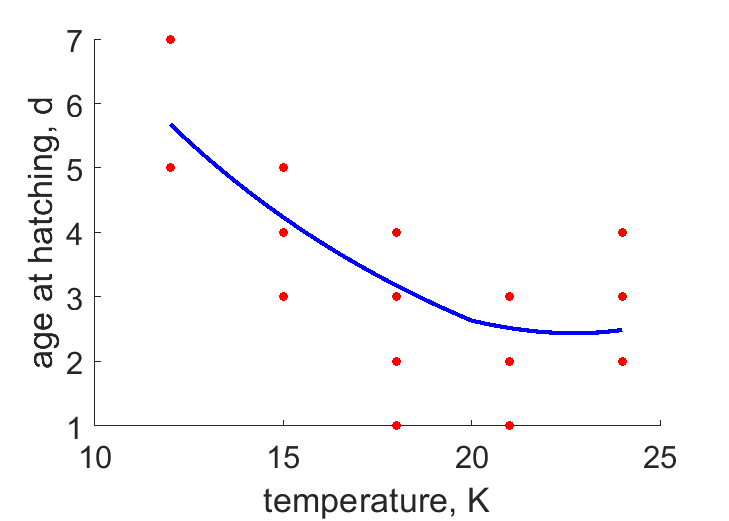
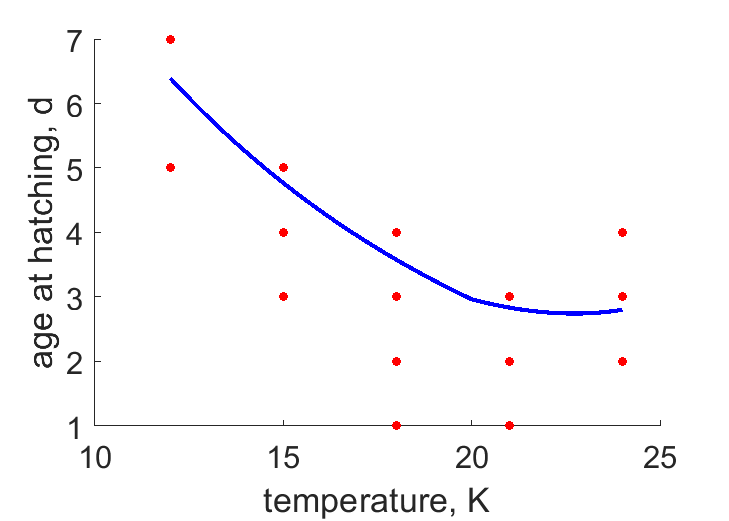
changing the functional response

diff --git a/Tachidius_discipes_abp/Tachidius_discipes_res.html b/Tachidius_discipes_abp/Tachidius_discipes_res.html
@@ -44,7 +44,7 @@
   </div>
 
   <div class="par">
-  <h4>COMPLETE = 2.0; MRE =    0.122; SMAE =    0.125; SMSE =    0.035 </h4>
+  <h4>COMPLETE = 2.0; MRE =    0.146; SMAE =    0.149; SMSE =    0.044 </h4>
   </div>
 
   <p class="clear"></p>
@@ -53,33 +53,33 @@
   <h2>Data & predictions</h2>
   <TABLE id="prd">
     <TR  class="head"><TH>data</TH> <TH>prd</TH> <TH>RE</TH>  <TH>symbol</TH> <TH>units</TH> <TH>description</TH> </TR>
-    <TR><TD>4.375</TD> <TD>4.236</TD> <TD>0.03184</TD> <TD>ah</TD> <TD>d</TD> <TD>age at hatch</TD></TR>
-    <TR><TD>0.006853</TD> <TD>0.007327</TD> <TD>0.0693</TD> <TD>Lh</TD> <TD>cm</TD> <TD>length at hatch</TD></TR>
-    <TR><TD>0.007812</TD> <TD>0.009189</TD> <TD>0.1762</TD> <TD>Lb</TD> <TD>cm</TD> <TD>length at birth</TD></TR>
-    <TR><TD>0.02666</TD> <TD>0.02309</TD> <TD>0.1338</TD> <TD>Lp</TD> <TD>cm</TD> <TD>length at puberty</TD></TR>
-    <TR><TD>2.057e-05</TD> <TD>2.053e-05</TD> <TD>0.001872</TD> <TD>Wdp</TD> <TD>g</TD> <TD>ultimate dry weight at puberty</TD></TR>
-    <TR><TD>14.6</TD> <TD>15.89</TD> <TD>0.08846</TD> <TD>JOi</TD> <TD>nL/h/mug</TD> <TD>ultimate specific O2 consumption</TD></TR>
-    <TR><TD>0.985</TD> <TD>10.31</TD> <TD>9.467</TD> <TD>WCp</TD> <TD>mugC</TD> <TD>carbon mass at puberty</TD></TR>
-    <TR><TD>0.2353</TD> <TD>1.804</TD> <TD>6.669</TD> <TD>WNp</TD> <TD>mugN</TD> <TD>nitrogen mass at puberty</TD></TR>
-    <TR><TD colspan="2">see figure</TD> <TD>0.103</TD> <TD>tL12</TD> <TD colspan="2">time <font color="blue"><i>vs.</i></font> area^{(1/2)}</TD>
-    <TR><TD colspan="2">see figure</TD> <TD>0.07842</TD> <TD>tL15</TD> <TD colspan="2">time <font color="blue"><i>vs.</i></font> area^{(1/2)}</TD>
-    <TR><TD colspan="2">see figure</TD> <TD>0.111</TD> <TD>tL18</TD> <TD colspan="2">time <font color="blue"><i>vs.</i></font> area^{(1/2)}</TD>
-    <TR><TD colspan="2">see figure</TD> <TD>0.09072</TD> <TD>tL21</TD> <TD colspan="2">time <font color="blue"><i>vs.</i></font> area^{(1/2)}</TD>
-    <TR><TD colspan="2">see figure</TD> <TD>0.06427</TD> <TD>tL24</TD> <TD colspan="2">time <font color="blue"><i>vs.</i></font> area^{(1/2)}</TD>
-    <TR><TD colspan="2">see figure</TD> <TD>0.02594</TD> <TD>tN12</TD> <TD colspan="2">time <font color="blue"><i>vs.</i></font> clutch size</TD>
-    <TR><TD colspan="2">see figure</TD> <TD>0.1288</TD> <TD>tN15</TD> <TD colspan="2">time <font color="blue"><i>vs.</i></font> clutch size</TD>
-    <TR><TD colspan="2">see figure</TD> <TD>0.0283</TD> <TD>tN18</TD> <TD colspan="2">time <font color="blue"><i>vs.</i></font> clutch size</TD>
-    <TR><TD colspan="2">see figure</TD> <TD>0.5606</TD> <TD>tN21</TD> <TD colspan="2">time <font color="blue"><i>vs.</i></font> clutch size</TD>
-    <TR><TD colspan="2">see figure</TD> <TD>0.2029</TD> <TD>tN24</TD> <TD colspan="2">time <font color="blue"><i>vs.</i></font> clutch size</TD>
-    <TR><TD colspan="2">see figure</TD> <TD>0.2155</TD> <TD>Tah</TD> <TD colspan="2">temperature <font color="blue"><i>vs.</i></font> age at hatching</TD>
-    <TR><TD colspan="2">see figure</TD> <TD>946.3</TD> <TD>LWCN</TD> <TD colspan="2">length <font color="blue"><i>vs.</i></font> carbon mass</TD>
-    <TR><TD colspan="2">see figure</TD> <TD>0.08183</TD> <TD>Tap</TD> <TD colspan="2">temperature <font color="blue"><i>vs.</i></font> age at puberty</TD>
-    <TR class="psd"><TD>0.02</TD> <TD>0.01419</TD> <TD>0.2907</TD> <TD>psd.v</TD> <TD>cm/d</TD> <TD>energy conductance</TD></TR>
-    <TR class="psd"><TD> 18</TD> <TD>2974</TD> <TD>164.2</TD> <TD>psd.p_M</TD> <TD>J/d.cm^3</TD> <TD>vol-spec som maint</TD></TR>
-    <TR class="psd"><TD>0.002</TD> <TD>0.002094</TD> <TD>0.04704</TD> <TD>psd.k_J</TD> <TD>1/d</TD> <TD>maturity maint rate coefficient</TD></TR>
-    <TR class="psd"><TD>0.3</TD> <TD>0.003131</TD> <TD>0.9896</TD> <TD>psd.k</TD> <TD>-</TD> <TD>maintenance ratio</TD></TR>
-    <TR class="psd"><TD>0.8</TD> <TD>0.9997</TD> <TD>0.2496</TD> <TD>psd.kap</TD> <TD>-</TD> <TD>allocation fraction to soma</TD></TR>
-    <TR class="psd"><TD>0.8</TD> <TD>0.7998</TD> <TD>0.0002206</TD> <TD>psd.kap_G</TD> <TD>-</TD> <TD>growth efficiency</TD></TR>
+    <TR><TD>4.375</TD> <TD>4.768</TD> <TD>0.08984</TD> <TD>ah</TD> <TD>d</TD> <TD>age at hatch</TD></TR>
+    <TR><TD>0.006853</TD> <TD>0.007603</TD> <TD>0.1095</TD> <TD>Lh</TD> <TD>cm</TD> <TD>length at hatch</TD></TR>
+    <TR><TD>0.007812</TD> <TD>0.009252</TD> <TD>0.1843</TD> <TD>Lb</TD> <TD>cm</TD> <TD>length at birth</TD></TR>
+    <TR><TD>0.02666</TD> <TD>0.02438</TD> <TD>0.08557</TD> <TD>Lp</TD> <TD>cm</TD> <TD>length at puberty</TD></TR>
+    <TR><TD>2.057e-05</TD> <TD>1.648e-05</TD> <TD>0.199</TD> <TD>Wdp</TD> <TD>g</TD> <TD>ultimate dry weight at puberty</TD></TR>
+    <TR><TD>14.6</TD> <TD>12.12</TD> <TD>0.1693</TD> <TD>JOi</TD> <TD>nL/h/mug</TD> <TD>ultimate specific O2 consumption</TD></TR>
+    <TR><TD>0.985</TD> <TD>8.273</TD> <TD>7.399</TD> <TD>WCp</TD> <TD>mugC</TD> <TD>carbon mass at puberty</TD></TR>
+    <TR><TD>0.2353</TD> <TD>1.448</TD> <TD>5.154</TD> <TD>WNp</TD> <TD>mugN</TD> <TD>nitrogen mass at puberty</TD></TR>
+    <TR><TD colspan="2">see figure</TD> <TD>0.09312</TD> <TD>tL12</TD> <TD colspan="2">time <font color="blue"><i>vs.</i></font> area^{(1/2)}</TD>
+    <TR><TD colspan="2">see figure</TD> <TD>0.07215</TD> <TD>tL15</TD> <TD colspan="2">time <font color="blue"><i>vs.</i></font> area^{(1/2)}</TD>
+    <TR><TD colspan="2">see figure</TD> <TD>0.1045</TD> <TD>tL18</TD> <TD colspan="2">time <font color="blue"><i>vs.</i></font> area^{(1/2)}</TD>
+    <TR><TD colspan="2">see figure</TD> <TD>0.1152</TD> <TD>tL21</TD> <TD colspan="2">time <font color="blue"><i>vs.</i></font> area^{(1/2)}</TD>
+    <TR><TD colspan="2">see figure</TD> <TD>0.06937</TD> <TD>tL24</TD> <TD colspan="2">time <font color="blue"><i>vs.</i></font> area^{(1/2)}</TD>
+    <TR><TD colspan="2">see figure</TD> <TD>0.003923</TD> <TD>tN12</TD> <TD colspan="2">time <font color="blue"><i>vs.</i></font> clutch size</TD>
+    <TR><TD colspan="2">see figure</TD> <TD>0.1606</TD> <TD>tN15</TD> <TD colspan="2">time <font color="blue"><i>vs.</i></font> clutch size</TD>
+    <TR><TD colspan="2">see figure</TD> <TD>0.04909</TD> <TD>tN18</TD> <TD colspan="2">time <font color="blue"><i>vs.</i></font> clutch size</TD>
+    <TR><TD colspan="2">see figure</TD> <TD>0.6048</TD> <TD>tN21</TD> <TD colspan="2">time <font color="blue"><i>vs.</i></font> clutch size</TD>
+    <TR><TD colspan="2">see figure</TD> <TD>0.1694</TD> <TD>tN24</TD> <TD colspan="2">time <font color="blue"><i>vs.</i></font> clutch size</TD>
+    <TR><TD colspan="2">see figure</TD> <TD>0.2557</TD> <TD>Tah</TD> <TD colspan="2">temperature <font color="blue"><i>vs.</i></font> age at hatching</TD>
+    <TR><TD colspan="2">see figure</TD> <TD>635.9</TD> <TD>LWCN</TD> <TD colspan="2">length <font color="blue"><i>vs.</i></font> carbon mass</TD>
+    <TR><TD colspan="2">see figure</TD> <TD>0.09927</TD> <TD>Tap</TD> <TD colspan="2">temperature <font color="blue"><i>vs.</i></font> age at puberty</TD>
+    <TR class="psd"><TD>0.02</TD> <TD>0.01207</TD> <TD>0.3963</TD> <TD>psd.v</TD> <TD>cm/d</TD> <TD>energy conductance</TD></TR>
+    <TR class="psd"><TD> 18</TD> <TD>2024</TD> <TD>111.5</TD> <TD>psd.p_M</TD> <TD>J/d.cm^3</TD> <TD>vol-spec som maint</TD></TR>
+    <TR class="psd"><TD>0.002</TD> <TD>0.001814</TD> <TD>0.09318</TD> <TD>psd.k_J</TD> <TD>1/d</TD> <TD>maturity maint rate coefficient</TD></TR>
+    <TR class="psd"><TD>0.3</TD> <TD>0.003961</TD> <TD>0.9868</TD> <TD>psd.k</TD> <TD>-</TD> <TD>maintenance ratio</TD></TR>
+    <TR class="psd"><TD>0.8</TD> <TD>0.9995</TD> <TD>0.2493</TD> <TD>psd.kap</TD> <TD>-</TD> <TD>allocation fraction to soma</TD></TR>
+    <TR class="psd"><TD>0.8</TD> <TD>0.8043</TD> <TD>0.005426</TD> <TD>psd.kap_G</TD> <TD>-</TD> <TD>growth efficiency</TD></TR>
     <TR class="psd"><TD>0.95</TD> <TD>0.95</TD> <TD>  0</TD> <TD>psd.kap_R</TD> <TD>-</TD> <TD>reproduction efficiency</TD></TR>
   </TABLE>
   </div>
@@ -90,33 +90,32 @@
     <TR class="head"><TH>symbol</TH> <TH>units</TH> <TH>value</TH>  <TH>free</TH> <TH>description</TH> </TR>
     <TR><TD>T_ref</TD> <TD>K</TD> <TD>293.1</TD> <TD>0</TD> <TD>Reference temperature</TD></TR>
     <TR><TD>T_A</TD> <TD>K</TD> <TD>8036</TD> <TD>0</TD> <TD>Arrhenius temperature</TD></TR>
-    <TR><TD>z</TD> <TD>-</TD> <TD>0.02721</TD> <TD>1</TD> <TD>zoom factor</TD></TR>
+    <TR><TD>z</TD> <TD>-</TD> <TD>0.02848</TD> <TD>1</TD> <TD>zoom factor</TD></TR>
     <TR><TD>F_m</TD> <TD>l/d.cm^2</TD> <TD>6.5</TD> <TD>0</TD> <TD>{F_m}, max spec searching rate</TD></TR>
     <TR><TD>kap_X</TD> <TD>-</TD> <TD>0.8</TD> <TD>0</TD> <TD>digestion efficiency of food to reserve</TD></TR>
     <TR><TD>kap_P</TD> <TD>-</TD> <TD>0.1</TD> <TD>0</TD> <TD>faecation efficiency of food to faeces</TD></TR>
-    <TR><TD>v</TD> <TD>cm/d</TD> <TD>0.01419</TD> <TD>1</TD> <TD>energy conductance</TD></TR>
-    <TR><TD>kap</TD> <TD>-</TD> <TD>0.9997</TD> <TD>1</TD> <TD>allocation fraction to soma</TD></TR>
+    <TR><TD>v</TD> <TD>cm/d</TD> <TD>0.01207</TD> <TD>1</TD> <TD>energy conductance</TD></TR>
+    <TR><TD>kap</TD> <TD>-</TD> <TD>0.9995</TD> <TD>1</TD> <TD>allocation fraction to soma</TD></TR>
     <TR><TD>kap_R</TD> <TD>-</TD> <TD>0.95</TD> <TD>0</TD> <TD>reproduction efficiency</TD></TR>
-    <TR><TD>p_M</TD> <TD>J/d.cm^3</TD> <TD>2974</TD> <TD>1</TD> <TD>[p_M], vol-spec somatic maint</TD></TR>
+    <TR><TD>p_M</TD> <TD>J/d.cm^3</TD> <TD>2024</TD> <TD>1</TD> <TD>[p_M], vol-spec somatic maint</TD></TR>
     <TR><TD>p_T</TD> <TD>J/d.cm^2</TD> <TD>  0</TD> <TD>0</TD> <TD>{p_T}, surf-spec somatic maint</TD></TR>
-    <TR><TD>k_J</TD> <TD>1/d</TD> <TD>0.002094</TD> <TD>1</TD> <TD>maturity maint rate coefficient</TD></TR>
-    <TR><TD>E_G</TD> <TD>J/cm^3</TD> <TD>4447</TD> <TD>1</TD> <TD>[E_G], spec cost for structure</TD></TR>
-    <TR><TD>E_Hb</TD> <TD>J</TD> <TD>7.774e-06</TD> <TD>1</TD> <TD>maturity at birth</TD></TR>
-    <TR><TD>E_Hp</TD> <TD>J</TD> <TD>0.0002301</TD> <TD>1</TD> <TD>maturity at puberty</TD></TR>
+    <TR><TD>k_J</TD> <TD>1/d</TD> <TD>0.001814</TD> <TD>1</TD> <TD>maturity maint rate coefficient</TD></TR>
+    <TR><TD>E_G</TD> <TD>J/cm^3</TD> <TD>4422</TD> <TD>1</TD> <TD>[E_G], spec cost for structure</TD></TR>
+    <TR><TD>E_Hb</TD> <TD>J</TD> <TD>9.088e-06</TD> <TD>1</TD> <TD>maturity at birth</TD></TR>
+    <TR><TD>E_Hp</TD> <TD>J</TD> <TD>0.0002781</TD> <TD>1</TD> <TD>maturity at puberty</TD></TR>
     <TR><TD>h_a</TD> <TD>1/d^2</TD> <TD>2.737e-22</TD> <TD>0</TD> <TD>Weibull aging acceleration</TD></TR>
     <TR><TD>s_G</TD> <TD>-</TD> <TD>0.0001</TD> <TD>0</TD> <TD>Gompertz stress coefficient</TD></TR>
-    <TR><TD>E_Hh</TD> <TD>J</TD> <TD>3.118e-06</TD> <TD>1</TD> <TD>maturity at hatch</TD></TR>
-    <TR><TD>T_AH</TD> <TD>K</TD> <TD>3.147e+04</TD> <TD>0</TD> <TD>Arrhenius temperature high boundary</TD></TR>
+    <TR><TD>E_Hh</TD> <TD>J</TD> <TD>4.222e-06</TD> <TD>1</TD> <TD>maturity at hatch</TD></TR>
     <TR><TD>T_AL</TD> <TD>K</TD> <TD>4.629e+05</TD> <TD>0</TD> <TD>Arrhenius temperature low boundary</TD></TR>
-    <TR><TD>T_H</TD> <TD>K</TD> <TD>298.9</TD> <TD>0</TD> <TD>Higher temperature boundary for optimal growth</TD></TR>
     <TR><TD>T_L</TD> <TD>K</TD> <TD>277.2</TD> <TD>0</TD> <TD>Lower temperature boundary for optimal growth</TD></TR>
-    <TR><TD>del_M</TD> <TD>-</TD> <TD>1.586</TD> <TD>1</TD> <TD>shape coefficient</TD></TR>
+    <TR><TD>T_AH</TD> <TD>K</TD> <TD>3.147e+04</TD> <TD>0</TD> <TD>Arrhenius temperature high boundary</TD></TR>
+    <TR><TD>T_H</TD> <TD>K</TD> <TD>298.9</TD> <TD>0</TD> <TD>Higher temperature boundary for optimal growth</TD></TR>
+    <TR><TD>del_M</TD> <TD>-</TD> <TD>1.444</TD> <TD>1</TD> <TD>shape coefficient</TD></TR>
     <TR><TD>f</TD> <TD>-</TD> <TD>  1</TD> <TD>0</TD> <TD>scaled functional response for 0-var data</TD></TR>
-    <TR><TD>f_tL12</TD> <TD>-</TD> <TD>1.112</TD> <TD>1</TD> <TD>scaled functional response for data at 12 C</TD></TR>
+    <TR><TD>f_tL12</TD> <TD>-</TD> <TD>1.102</TD> <TD>1</TD> <TD>scaled functional response for data at 12 C</TD></TR>
     <TR><TD>f_tL15</TD> <TD>-</TD> <TD>  1</TD> <TD>0</TD> <TD>scaled functional response for data at 15 C</TD></TR>
-    <TR><TD>f_tL18</TD> <TD>-</TD> <TD>0.9686</TD> <TD>1</TD> <TD>scaled functional response for data at 18 C</TD></TR>
-    <TR><TD>f_tL21</TD> <TD>-</TD> <TD>0.9108</TD> <TD>1</TD> <TD>scaled functional response for data at 21 C</TD></TR>
-    <TR><TD>f_tL24</TD> <TD>-</TD> <TD>0.9288</TD> <TD>1</TD> <TD>scaled functional response for data at 24 C</TD></TR>
+    <TR><TD>f_tL18</TD> <TD>-</TD> <TD>0.9503</TD> <TD>1</TD> <TD>scaled functional response for data at 18 C</TD></TR>
+    <TR><TD>f_tL21</TD> <TD>-</TD> <TD>0.8944</TD> <TD>1</TD> <TD>scaled functional response for data at 21 C</TD></TR>
   </TABLE>
   </div>
 

diff --git a/Tachidius_discipes_abp/pars_init_Tachidius_discipes.m b/Tachidius_discipes_abp/pars_init_Tachidius_discipes.m
@@ -7,35 +7,34 @@ par.T_ref = 293.15;   free.T_ref = 0;   units.T_ref = 'K';        label.T_ref = 
 
 %% core primary parameters 
 par.T_A = 8036;       free.T_A   = 0;   units.T_A = 'K';          label.T_A = 'Arrhenius temperature'; 
-par.z = 0.027215;     free.z     = 1;   units.z = '-';            label.z = 'zoom factor'; 
+par.z = 0.028484;     free.z     = 1;   units.z = '-';            label.z = 'zoom factor'; 
 par.F_m = 6.5;        free.F_m   = 0;   units.F_m = 'l/d.cm^2';   label.F_m = '{F_m}, max spec searching rate'; 
 par.kap_X = 0.8;      free.kap_X = 0;   units.kap_X = '-';        label.kap_X = 'digestion efficiency of food to reserve'; 
 par.kap_P = 0.1;      free.kap_P = 0;   units.kap_P = '-';        label.kap_P = 'faecation efficiency of food to faeces'; 
-par.v = 0.014187;     free.v     = 1;   units.v = 'cm/d';         label.v = 'energy conductance'; 
-par.kap = 0.9997;     free.kap   = 1;   units.kap = '-';          label.kap = 'allocation fraction to soma'; 
+par.v = 0.012074;     free.v     = 1;   units.v = 'cm/d';         label.v = 'energy conductance'; 
+par.kap = 0.99948;    free.kap   = 1;   units.kap = '-';          label.kap = 'allocation fraction to soma'; 
 par.kap_R = 0.95;     free.kap_R = 0;   units.kap_R = '-';        label.kap_R = 'reproduction efficiency'; 
-par.p_M = 2973.5238;  free.p_M   = 1;   units.p_M = 'J/d.cm^3';   label.p_M = '[p_M], vol-spec somatic maint'; 
+par.p_M = 2024.3435;  free.p_M   = 1;   units.p_M = 'J/d.cm^3';   label.p_M = '[p_M], vol-spec somatic maint'; 
 par.p_T = 0;          free.p_T   = 0;   units.p_T = 'J/d.cm^2';   label.p_T = '{p_T}, surf-spec somatic maint'; 
-par.k_J = 0.0020941;  free.k_J   = 1;   units.k_J = '1/d';        label.k_J = 'maturity maint rate coefficient'; 
-par.E_G = 4446.5878;  free.E_G   = 1;   units.E_G = 'J/cm^3';     label.E_G = '[E_G], spec cost for structure'; 
-par.E_Hb = 7.774e-06; free.E_Hb  = 1;   units.E_Hb = 'J';         label.E_Hb = 'maturity at birth'; 
-par.E_Hp = 2.301e-04; free.E_Hp  = 1;   units.E_Hp = 'J';         label.E_Hp = 'maturity at puberty'; 
+par.k_J = 0.0018136;  free.k_J   = 1;   units.k_J = '1/d';        label.k_J = 'maturity maint rate coefficient'; 
+par.E_G = 4421.6141;  free.E_G   = 1;   units.E_G = 'J/cm^3';     label.E_G = '[E_G], spec cost for structure'; 
+par.E_Hb = 9.088e-06; free.E_Hb  = 1;   units.E_Hb = 'J';         label.E_Hb = 'maturity at birth'; 
+par.E_Hp = 2.781e-04; free.E_Hp  = 1;   units.E_Hp = 'J';         label.E_Hp = 'maturity at puberty'; 
 par.h_a = 2.737e-22;  free.h_a   = 0;   units.h_a = '1/d^2';      label.h_a = 'Weibull aging acceleration'; 
 par.s_G = 0.0001;     free.s_G   = 0;   units.s_G = '-';          label.s_G = 'Gompertz stress coefficient'; 
 
 %% other parameters 
-par.E_Hh = 3.118e-06; free.E_Hh  = 1;   units.E_Hh = 'J';         label.E_Hh = 'maturity at hatch'; 
+par.E_Hh = 4.222e-06; free.E_Hh  = 1;   units.E_Hh = 'J';         label.E_Hh = 'maturity at hatch'; 
 par.T_AH = 31465;     free.T_AH  = 0;   units.T_AH = 'K';         label.T_AH = 'Arrhenius temperature high boundary'; 
 par.T_AL = 462923;    free.T_AL  = 0;   units.T_AL = 'K';         label.T_AL = 'Arrhenius temperature low boundary'; 
 par.T_H = 298.88;     free.T_H   = 0;   units.T_H = 'K';          label.T_H = 'Higher temperature boundary for optimal growth'; 
 par.T_L = 277.23;     free.T_L   = 0;   units.T_L = 'K';          label.T_L = 'Lower temperature boundary for optimal growth'; 
-par.del_M = 1.5862;   free.del_M = 1;   units.del_M = '-';        label.del_M = 'shape coefficient'; 
+par.del_M = 1.4443;   free.del_M = 1;   units.del_M = '-';        label.del_M = 'shape coefficient'; 
 par.f = 1;            free.f     = 0;   units.f = '-';            label.f = 'scaled functional response for 0-var data'; 
-par.f_tL12 = 1.1121;  free.f_tL12 = 1;   units.f_tL12 = '-';       label.f_tL12 = 'scaled functional response for data at 12 C'; 
+par.f_tL12 = 1.102;   free.f_tL12 = 1;   units.f_tL12 = '-';       label.f_tL12 = 'scaled functional response for data at 12 C'; 
 par.f_tL15 = 1;       free.f_tL15 = 0;   units.f_tL15 = '-';       label.f_tL15 = 'scaled functional response for data at 15 C'; 
-par.f_tL18 = 0.96857;  free.f_tL18 = 1;   units.f_tL18 = '-';       label.f_tL18 = 'scaled functional response for data at 18 C'; 
-par.f_tL21 = 0.91084;  free.f_tL21 = 1;   units.f_tL21 = '-';       label.f_tL21 = 'scaled functional response for data at 21 C'; 
-par.f_tL24 = 0.92876;  free.f_tL24 = 1;   units.f_tL24 = '-';       label.f_tL24 = 'scaled functional response for data at 24 C'; 
+par.f_tL18 = 0.95027;  free.f_tL18 = 1;   units.f_tL18 = '-';       label.f_tL18 = 'scaled functional response for data at 18 C'; 
+par.f_tL21 = 0.89441;  free.f_tL21 = 1;   units.f_tL21 = '-';       label.f_tL21 = 'scaled functional response for data at 21 C'; 
 
 %% set chemical parameters from Kooy2010 
 [par, units, label, free] = addchem(par, units, label, free, metaData.phylum, metaData.class); 

diff --git a/Tachidius_discipes_abp/figures_Tachidius_discipes.m b/Tachidius_discipes_abp/figures_Tachidius_discipes.m
@@ -6,8 +6,8 @@ cPar = parscomp_st(par);  vars_pull(par);
 vars_pull(cPar);  vars_pull(data);  vars_pull(auxData);
 
 % Set temperature and food availability
-T = C2K(18);
-f = 0.72;
+T = C2K(24);
+f = 1.112;
 
 % predicting fluxes and other statistics
 [stat, txtStat] = statistics_st('abp', par, T, f);
@@ -24,7 +24,7 @@ label_with_proportions = strcat(flux_labels, {' '}, string(round(fluxes, 2)));
 % pie plot
 figure('Position', [100, 100, 800, 600]); % [left, bottom, width, height]
 h = pie(fluxes, [1 1 0 0], label_with_proportions);
-title(strcat({'Energy budget at birth at '}, string(K2C(T)), {'°C and f = '}, string(f)));
+title(strcat({'Energy budget at birth at '}, string(K2C(T)), {'C and f = '}, string(f)));
 
 % Define custom colors (RGB)
 colors = [
@@ -44,9 +44,9 @@ figure('Position', [100, 100, 800, 600]); % [left, bottom, width, height]
 b = bar(fluxes);
 set(gca, 'XTickLabel', flux_labels);
 ylabel('Proportion');
-title(strcat({'Energy budget at birth at '}, string(K2C(T)), {'°C and f = '}, string(f)));
+title(strcat({'Energy budget at birth at '}, string(K2C(T)), {'C and f = '}, string(f)));
 
-% Rotate the x-axis labels
+% Rotate the x-axis labelst
 xtickangle(45);
 
 % Define custom colors
@@ -73,7 +73,7 @@ label_with_proportions = strcat(flux_labels, {' '}, string(round(fluxes_p, 2)));
 % pie plot
 figure('Position', [100, 100, 800, 600]); % [left, bottom, width, height]
 h = pie(fluxes_p, [1 1 0 0], label_with_proportions);
-title(strcat({'Energy budget after puberty at '}, string(K2C(T)), {'°C and f = '}, string(f)));
+title(strcat({'Energy budget after puberty at '}, string(K2C(T)), {'C and f = '}, string(f)));
 
 % Define custom colors (RGB)
 colors = [
@@ -93,7 +93,7 @@ fig = figure('Position', [100, 100, 800, 600]); % [left, bottom, width, height]
 b = bar(fluxes_p);
 set(gca, 'XTickLabel', flux_labels);
 ylabel('Proportion');
-title(strcat({'Energy budget after puberty at '}, string(K2C(T)), {'°C and f = '}, string(f)));
+title(strcat({'Energy budget after puberty at '}, string(K2C(T)), {'C and f = '}, string(f)));
 
 % Rotate the x-axis labels
 xtickangle(45);

diff --git a/Tachidius_discipes_abp/predict_Tachidius_discipes.m b/Tachidius_discipes_abp/predict_Tachidius_discipes.m
@@ -99,7 +99,7 @@ function [prdData, info] = predict_Tachidius_discipes(par, data, auxData)
   EL21 = ELHR(ci,2)/ del_M; 
 
   [tsort, ~, ci] = unique(tL24(:,1)); 
-  [~, ELHR] = ode45(@dget_ELHR_abp, tsort, ELHR0,[], p, TC24, L_b, f_tL24);
+  [~, ELHR] = ode45(@dget_ELHR_abp, tsort, ELHR0,[], p, TC24, L_b, f_tL21);
   EL24 = ELHR(ci,2)/ del_M; 
       
   % time-clutch size at 12 C
@@ -129,7 +129,7 @@ function [prdData, info] = predict_Tachidius_discipes(par, data, auxData)
 
   EN24 = zeros(size(tN24,1),1);
   for i = 1:size(tN24,1)
-      [~, ELHR] = ode45(@dget_ELHR_abp, [0 tN24(i,1)], ELHR0,[], p, TC24, L_b, f_tL24);
+      [~, ELHR] = ode45(@dget_ELHR_abp, [0 tN24(i,1)], ELHR0,[], p, TC24, L_b, f_tL21);
       EN24(i) = kap_R * ELHR(end,4)/E_0; 
   end
 
@@ -140,7 +140,7 @@ function [prdData, info] = predict_Tachidius_discipes(par, data, auxData)
   % Visualization is still weird
   % temperature-age at puberty (accounting for variable functional
   % response)
-  fs = [f_tL12; f_tL15; f_tL18; f_tL21; f_tL24];
+  fs = [f_tL12; f_tL15; f_tL18; f_tL21; f_tL21];
   ETap = zeros(size(Tap,1),1);
   if size(Tap,1) > length(fs)
     % During prediction for visualization, Tap is large, so interpolation
